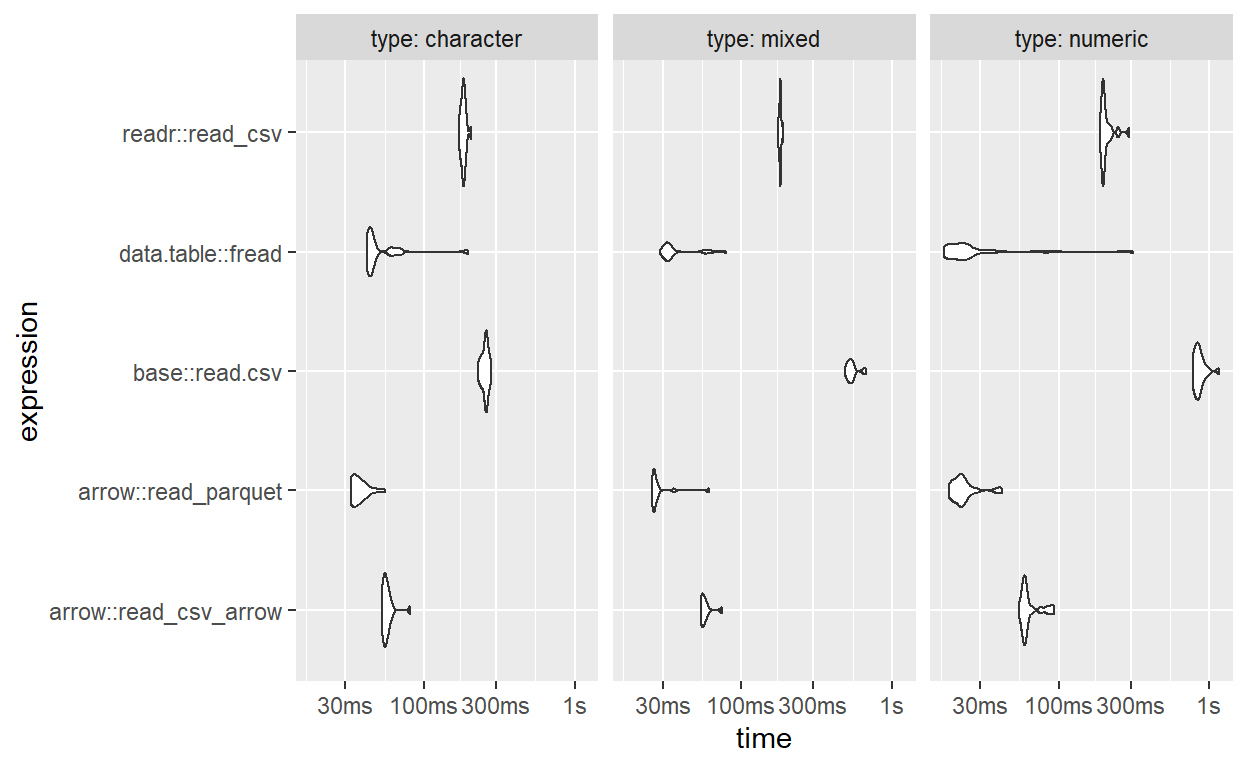
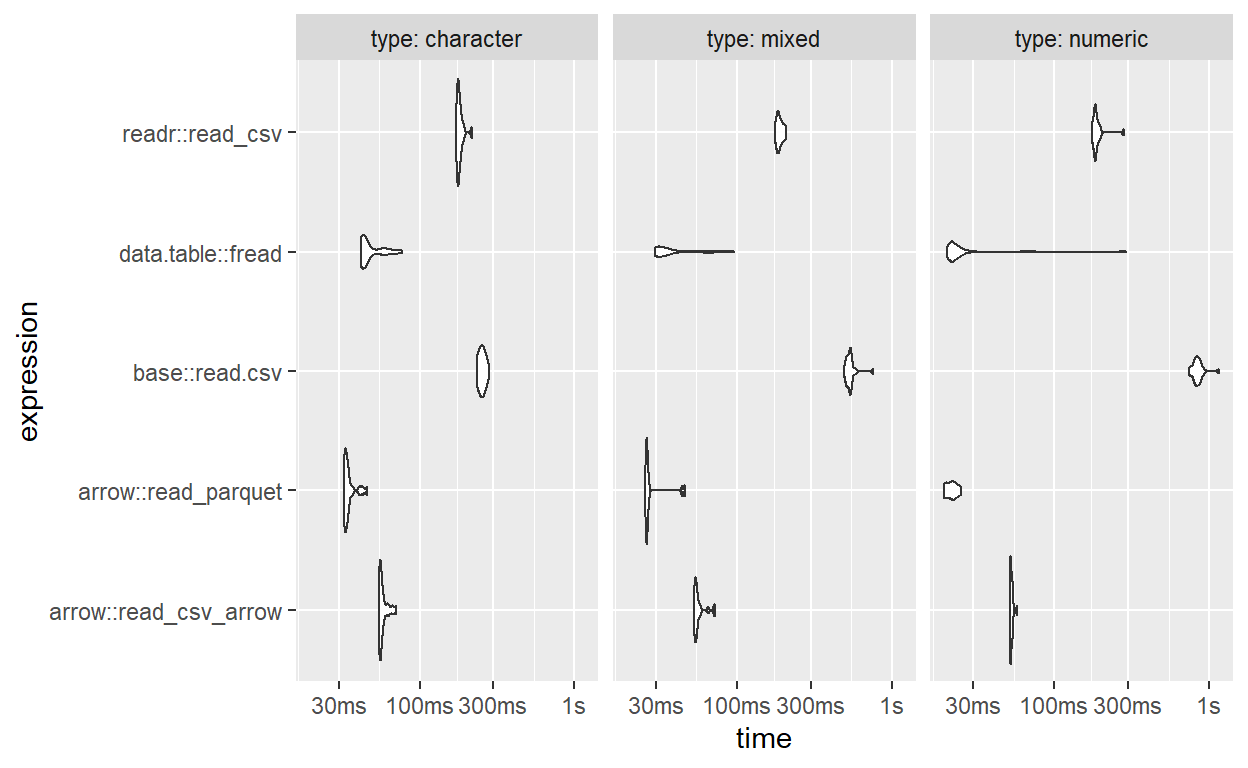
add categories in the post

diff --git a/docs/posts/2022-07-27-how-fast-is-reading-parquet-files-with-arrow/index.html b/docs/posts/2022-07-27-how-fast-is-reading-parquet-files-with-arrow/index.html
@@ -131,7 +131,7 @@ code span.wa { color: #5e5e5e; font-style: italic; } /* Warning */
   <!--radix_placeholder_rmarkdown_metadata-->
 
 <script type="text/json" id="radix-rmarkdown-metadata">
-{"type":"list","attributes":{"names":{"type":"character","attributes":{},"value":["title","description","author","date","output","citation_url","canonical_url"]}},"value":[{"type":"character","attributes":{},"value":["How fast is reading .parquet files with {arrow}"]},{"type":"character","attributes":{},"value":["We compare reading times of csv files with different packages such as {readr},\n{data.table} and {arrow}. We also compare the reading time of a parquet data format with {arrow}."]},{"type":"list","attributes":{},"value":[{"type":"list","attributes":{"names":{"type":"character","attributes":{},"value":["name","url"]}},"value":[{"type":"character","attributes":{},"value":["Lefkios  Paikousis"]},{"type":"character","attributes":{},"value":["https://www.linkedin.com/in/lefkios/"]}]}]},{"type":"character","attributes":{},"value":["2022-07-27"]},{"type":"list","attributes":{"names":{"type":"character","attributes":{},"value":["distill::distill_article"]}},"value":[{"type":"list","attributes":{"names":{"type":"character","attributes":{},"value":["self_contained"]}},"value":[{"type":"logical","attributes":{},"value":[false]}]}]},{"type":"character","attributes":{},"value":["https://lefkiospaikousis.netlify.app/posts/2022-07-27-how-fast-is-reading-parquet-files-with-arrow/"]},{"type":"character","attributes":{},"value":["https://lefkiospaikousis.netlify.app/posts/2022-07-27-how-fast-is-reading-parquet-files-with-arrow/"]}]}
+{"type":"list","attributes":{"names":{"type":"character","attributes":{},"value":["title","description","author","categories","date","output","citation_url","canonical_url"]}},"value":[{"type":"character","attributes":{},"value":["How fast is reading .parquet files with {arrow}"]},{"type":"character","attributes":{},"value":["We compare reading times of csv files with different packages such as {readr},\n{data.table} and {arrow}. We also compare the reading time of a parquet data format with {arrow}."]},{"type":"list","attributes":{},"value":[{"type":"list","attributes":{"names":{"type":"character","attributes":{},"value":["name","url"]}},"value":[{"type":"character","attributes":{},"value":["Lefkios  Paikousis"]},{"type":"character","attributes":{},"value":["https://www.linkedin.com/in/lefkios/"]}]}]},{"type":"character","attributes":{},"value":["arrow",".parquet",".csv","data.table","readr"]},{"type":"character","attributes":{},"value":["2022-07-27"]},{"type":"list","attributes":{"names":{"type":"character","attributes":{},"value":["distill::distill_article"]}},"value":[{"type":"list","attributes":{"names":{"type":"character","attributes":{},"value":["self_contained"]}},"value":[{"type":"logical","attributes":{},"value":[false]}]}]},{"type":"character","attributes":{},"value":["https://lefkiospaikousis.netlify.app/posts/2022-07-27-how-fast-is-reading-parquet-files-with-arrow/"]},{"type":"character","attributes":{},"value":["https://lefkiospaikousis.netlify.app/posts/2022-07-27-how-fast-is-reading-parquet-files-with-arrow/"]}]}
 </script>
 <!--/radix_placeholder_rmarkdown_metadata-->
   
@@ -2187,6 +2187,13 @@ d-code {
 <div class="d-title">
 <h1>How fast is reading .parquet files with {arrow}</h1>
 <!--radix_placeholder_categories-->
+<div class="dt-tags">
+  <a href="../../index.html#category:arrow" class="dt-tag">arrow</a>
+  <a href="../../index.html#category:.parquet" class="dt-tag">.parquet</a>
+  <a href="../../index.html#category:.csv" class="dt-tag">.csv</a>
+  <a href="../../index.html#category:data.table" class="dt-tag">data.table</a>
+  <a href="../../index.html#category:readr" class="dt-tag">readr</a>
+</div>
 <!--/radix_placeholder_categories-->
 <p><p>We compare reading times of csv files with different packages such
 as {readr}, {data.table} and {arrow}. We also compare the reading time
@@ -2216,7 +2223,7 @@ presentation</a> by <a href="https://twitter.com/thomas_mock">Tom
 Mock</a></p>
 <p>Last, the code for the entire analysis canbe found on <a
 href="https://github.com/lefkiospaikousis/distill_webpage/tree/master/_posts/2022-07-27-how-fast-is-reading-parquet-files-with-arrow">github</a></p>
-<p>Enough bla bla… Let’s code now.</p>
+<p>Let’s code now.</p>
 <p>First, the needed libraries.</p>
 <div class="layout-chunk" data-layout="l-body">
 <div class="sourceCode">
@@ -2316,11 +2323,11 @@ compared to <code>arrow::read_parquet</code> (1.08MB)</p>
 <pre><code># A tibble: 5 x 4
   expression                 min   median mem_alloc
   &lt;bch:expr&gt;            &lt;bch:tm&gt; &lt;bch:tm&gt; &lt;bch:byt&gt;
-1 base::read.csv         183.6ms    184ms   26.88MB
-2 arrow::read_csv_arrow   29.6ms   31.2ms    5.36MB
-3 readr::read_csv        137.4ms  142.8ms    1.45MB
-4 data.table::fread       14.9ms     18ms    5.87MB
-5 arrow::read_parquet     15.9ms   16.5ms    1.08MB</code></pre>
+1 base::read.csv           184ms  187.7ms   26.88MB
+2 arrow::read_csv_arrow   30.4ms   32.2ms    5.36MB
+3 readr::read_csv        139.6ms  143.1ms    1.45MB
+4 data.table::fread       16.7ms   17.8ms    5.87MB
+5 arrow::read_parquet     15.8ms   16.7ms    1.08MB</code></pre>
 </div>
 <p><br></p>
 <div class="layout-chunk" data-layout="l-body">
@@ -2809,25 +2816,25 @@ to run a grid of comparisons across the 3 datasets.</p>
   </thead>
   <tbody class="gt_table_body">
     <tr><td class="gt_row gt_left">arrow::read_parquet</td>
-<td class="gt_row gt_center">22.5ms</td>
-<td class="gt_row gt_center">36.0ms<sup class="gt_footnote_marks">1</sup></td>
-<td class="gt_row gt_center">26.5ms<sup class="gt_footnote_marks">1</sup></td></tr>
+<td class="gt_row gt_center">21.9ms</td>
+<td class="gt_row gt_center">34.0ms<sup class="gt_footnote_marks">1</sup></td>
+<td class="gt_row gt_center">26.3ms<sup class="gt_footnote_marks">1</sup></td></tr>
     <tr><td class="gt_row gt_left">data.table::fread</td>
-<td class="gt_row gt_center">22.9ms<sup class="gt_footnote_marks">2</sup></td>
+<td class="gt_row gt_center">22.1ms<sup class="gt_footnote_marks">2</sup></td>
 <td class="gt_row gt_center">43.5ms</td>
-<td class="gt_row gt_center">32.7ms</td></tr>
+<td class="gt_row gt_center">31.6ms</td></tr>
     <tr><td class="gt_row gt_left">arrow::read_csv_arrow</td>
-<td class="gt_row gt_center">60.1ms</td>
-<td class="gt_row gt_center">55.4ms</td>
-<td class="gt_row gt_center">56.1ms</td></tr>
+<td class="gt_row gt_center">52.5ms</td>
+<td class="gt_row gt_center">56.1ms</td>
+<td class="gt_row gt_center">54.7ms</td></tr>
     <tr><td class="gt_row gt_left">readr::read_csv</td>
-<td class="gt_row gt_center">197.8ms</td>
-<td class="gt_row gt_center">181.5ms</td>
-<td class="gt_row gt_center">181.4ms</td></tr>
+<td class="gt_row gt_center">184.4ms</td>
+<td class="gt_row gt_center">178.9ms</td>
+<td class="gt_row gt_center">186.5ms</td></tr>
     <tr><td class="gt_row gt_left">base::read.csv</td>
-<td class="gt_row gt_center">792.0ms</td>
-<td class="gt_row gt_center">241.2ms</td>
-<td class="gt_row gt_center">508.8ms</td></tr>
+<td class="gt_row gt_center">767.4ms</td>
+<td class="gt_row gt_center">241.0ms</td>
+<td class="gt_row gt_center">505.6ms</td></tr>
   </tbody>
   <tfoot class="gt_sourcenotes">
     <tr>

diff --git a/_posts/2022-07-27-how-fast-is-reading-parquet-files-with-arrow/how-fast-is-arrow.html b/_posts/2022-07-27-how-fast-is-reading-parquet-files-with-arrow/how-fast-is-arrow.html
@@ -113,7 +113,7 @@ code span.wa { color: #5e5e5e; font-style: italic; } /* Warning */
   <!--radix_placeholder_rmarkdown_metadata-->
 
   <script type="text/json" id="radix-rmarkdown-metadata">
-  {"type":"list","attributes":{"names":{"type":"character","attributes":{},"value":["title","description","author","date","output"]}},"value":[{"type":"character","attributes":{},"value":["How fast is reading .parquet files with {arrow}"]},{"type":"character","attributes":{},"value":["We compare reading times of csv files with different packages such as {readr},\n{data.table} and {arrow}. We also compare the reading time of a parquet data format with {arrow}.\n"]},{"type":"list","attributes":{},"value":[{"type":"list","attributes":{"names":{"type":"character","attributes":{},"value":["name","url"]}},"value":[{"type":"character","attributes":{},"value":["Lefkios  Paikousis"]},{"type":"character","attributes":{},"value":["https://www.linkedin.com/in/lefkios/"]}]}]},{"type":"character","attributes":{},"value":["2022-07-27"]},{"type":"list","attributes":{"names":{"type":"character","attributes":{},"value":["distill::distill_article"]}},"value":[{"type":"list","attributes":{"names":{"type":"character","attributes":{},"value":["self_contained"]}},"value":[{"type":"logical","attributes":{},"value":[false]}]}]}]}
+  {"type":"list","attributes":{"names":{"type":"character","attributes":{},"value":["title","description","author","categories","date","output"]}},"value":[{"type":"character","attributes":{},"value":["How fast is reading .parquet files with {arrow}"]},{"type":"character","attributes":{},"value":["We compare reading times of csv files with different packages such as {readr},\n{data.table} and {arrow}. We also compare the reading time of a parquet data format with {arrow}.\n"]},{"type":"list","attributes":{},"value":[{"type":"list","attributes":{"names":{"type":"character","attributes":{},"value":["name","url"]}},"value":[{"type":"character","attributes":{},"value":["Lefkios  Paikousis"]},{"type":"character","attributes":{},"value":["https://www.linkedin.com/in/lefkios/"]}]}]},{"type":"character","attributes":{},"value":["arrow",".parquet",".csv","data.table","readr"]},{"type":"character","attributes":{},"value":["2022-07-27"]},{"type":"list","attributes":{"names":{"type":"character","attributes":{},"value":["distill::distill_article"]}},"value":[{"type":"list","attributes":{"names":{"type":"character","attributes":{},"value":["self_contained"]}},"value":[{"type":"logical","attributes":{},"value":[false]}]}]}]}
   </script>
   <!--/radix_placeholder_rmarkdown_metadata-->
   
@@ -1501,6 +1501,13 @@ code span.wa { color: #5e5e5e; font-style: italic; } /* Warning */
 <div class="d-title">
 <h1>How fast is reading .parquet files with {arrow}</h1>
 <!--radix_placeholder_categories-->
+<div class="dt-tags">
+<div class="dt-tag">arrow</div>
+<div class="dt-tag">.parquet</div>
+<div class="dt-tag">.csv</div>
+<div class="dt-tag">data.table</div>
+<div class="dt-tag">readr</div>
+</div>
 <!--/radix_placeholder_categories-->
 <p><p>We compare reading times of csv files with different packages such
 as {readr}, {data.table} and {arrow}. We also compare the reading time
@@ -1530,7 +1537,7 @@ presentation</a> by <a href="https://twitter.com/thomas_mock">Tom
 Mock</a></p>
 <p>Last, the code for the entire analysis canbe found on <a
 href="https://github.com/lefkiospaikousis/distill_webpage/tree/master/_posts/2022-07-27-how-fast-is-reading-parquet-files-with-arrow">github</a></p>
-<p>Enough bla bla… Let’s code now.</p>
+<p>Let’s code now.</p>
 <p>First, the needed libraries.</p>
 <div class="layout-chunk" data-layout="l-body">
 <div class="sourceCode">
@@ -1630,11 +1637,11 @@ compared to <code>arrow::read_parquet</code> (1.08MB)</p>
 <pre><code># A tibble: 5 x 4
   expression                 min   median mem_alloc
   &lt;bch:expr&gt;            &lt;bch:tm&gt; &lt;bch:tm&gt; &lt;bch:byt&gt;
-1 base::read.csv         183.6ms    184ms   26.88MB
-2 arrow::read_csv_arrow   29.6ms   31.2ms    5.36MB
-3 readr::read_csv        137.4ms  142.8ms    1.45MB
-4 data.table::fread       14.9ms     18ms    5.87MB
-5 arrow::read_parquet     15.9ms   16.5ms    1.08MB</code></pre>
+1 base::read.csv           184ms  187.7ms   26.88MB
+2 arrow::read_csv_arrow   30.4ms   32.2ms    5.36MB
+3 readr::read_csv        139.6ms  143.1ms    1.45MB
+4 data.table::fread       16.7ms   17.8ms    5.87MB
+5 arrow::read_parquet     15.8ms   16.7ms    1.08MB</code></pre>
 </div>
 <p><br></p>
 <div class="layout-chunk" data-layout="l-body">
@@ -2123,25 +2130,25 @@ to run a grid of comparisons across the 3 datasets.</p>
   </thead>
   <tbody class="gt_table_body">
     <tr><td class="gt_row gt_left">arrow::read_parquet</td>
-<td class="gt_row gt_center">22.5ms</td>
-<td class="gt_row gt_center">36.0ms<sup class="gt_footnote_marks">1</sup></td>
-<td class="gt_row gt_center">26.5ms<sup class="gt_footnote_marks">1</sup></td></tr>
+<td class="gt_row gt_center">21.9ms</td>
+<td class="gt_row gt_center">34.0ms<sup class="gt_footnote_marks">1</sup></td>
+<td class="gt_row gt_center">26.3ms<sup class="gt_footnote_marks">1</sup></td></tr>
     <tr><td class="gt_row gt_left">data.table::fread</td>
-<td class="gt_row gt_center">22.9ms<sup class="gt_footnote_marks">2</sup></td>
+<td class="gt_row gt_center">22.1ms<sup class="gt_footnote_marks">2</sup></td>
 <td class="gt_row gt_center">43.5ms</td>
-<td class="gt_row gt_center">32.7ms</td></tr>
+<td class="gt_row gt_center">31.6ms</td></tr>
     <tr><td class="gt_row gt_left">arrow::read_csv_arrow</td>
-<td class="gt_row gt_center">60.1ms</td>
-<td class="gt_row gt_center">55.4ms</td>
-<td class="gt_row gt_center">56.1ms</td></tr>
+<td class="gt_row gt_center">52.5ms</td>
+<td class="gt_row gt_center">56.1ms</td>
+<td class="gt_row gt_center">54.7ms</td></tr>
     <tr><td class="gt_row gt_left">readr::read_csv</td>
-<td class="gt_row gt_center">197.8ms</td>
-<td class="gt_row gt_center">181.5ms</td>
-<td class="gt_row gt_center">181.4ms</td></tr>
+<td class="gt_row gt_center">184.4ms</td>
+<td class="gt_row gt_center">178.9ms</td>
+<td class="gt_row gt_center">186.5ms</td></tr>
     <tr><td class="gt_row gt_left">base::read.csv</td>
-<td class="gt_row gt_center">792.0ms</td>
-<td class="gt_row gt_center">241.2ms</td>
-<td class="gt_row gt_center">508.8ms</td></tr>
+<td class="gt_row gt_center">767.4ms</td>
+<td class="gt_row gt_center">241.0ms</td>
+<td class="gt_row gt_center">505.6ms</td></tr>
   </tbody>
   <tfoot class="gt_sourcenotes">
     <tr>

diff --git a/docs/index.html b/docs/index.html
@@ -2295,9 +2295,9 @@ function init_posts_list() {
 <div class="posts-list">
 <h1 class="posts-list-caption" data-caption="Blog">Blog</h1>
 <a href="posts/2022-07-27-how-fast-is-reading-parquet-files-with-arrow/" class="post-preview">
-<script class="post-metadata" type="text/json">{"categories":[]}</script>
+<script class="post-metadata" type="text/json">{"categories":["arrow",".parquet",".csv","data.table","readr"]}</script>
 <div class="metadata">
-<div class="publishedDate">July 27, 2022</div>
+<div class="publishedDate">July 26, 2022</div>
 <div class="dt-authors">
 <div class="dt-author">Lefkios  Paikousis</div>
 </div>
@@ -2307,7 +2307,13 @@ function init_posts_list() {
 </div>
 <div class="description">
 <h2>How fast is reading .parquet files with {arrow}</h2>
-<div class="dt-tags"></div>
+<div class="dt-tags">
+<div class="dt-tag">arrow</div>
+<div class="dt-tag">.parquet</div>
+<div class="dt-tag">.csv</div>
+<div class="dt-tag">data.table</div>
+<div class="dt-tag">readr</div>
+</div>
 <p>We compare reading times of csv files with different packages such as {readr},
 {data.table} and {arrow}. We also compare the reading time of a parquet data format with {arrow}.</p>
 </div>
@@ -2383,6 +2389,22 @@ function init_posts_list() {
 <span class="category-count">(4)</span>
 </li>
 <li>
+<a href="#category:.csv">.csv</a>
+<span class="category-count">(1)</span>
+</li>
+<li>
+<a href="#category:.parquet">.parquet</a>
+<span class="category-count">(1)</span>
+</li>
+<li>
+<a href="#category:arrow">arrow</a>
+<span class="category-count">(1)</span>
+</li>
+<li>
+<a href="#category:data.table">data.table</a>
+<span class="category-count">(1)</span>
+</li>
+<li>
 <a href="#category:excel">excel</a>
 <span class="category-count">(1)</span>
 </li>
@@ -2400,6 +2422,10 @@ function init_posts_list() {
 </li>
 <li>
 <a href="#category:purrr">purrr</a>
+<span class="category-count">(1)</span>
+</li>
+<li>
+<a href="#category:readr">readr</a>
 <span class="category-count">(1)</span>
 </li>
 <li>
@@ -2421,7 +2447,7 @@ function init_posts_list() {
 <a href="#">More articles &raquo;</a>
 </div>
 </div>
-<!--/radix_placeholder_article_listing-->
+<!--/radix_placeholder_article_listing-->
 
 <div class="d-title">
 <h1>Blog</h1>
